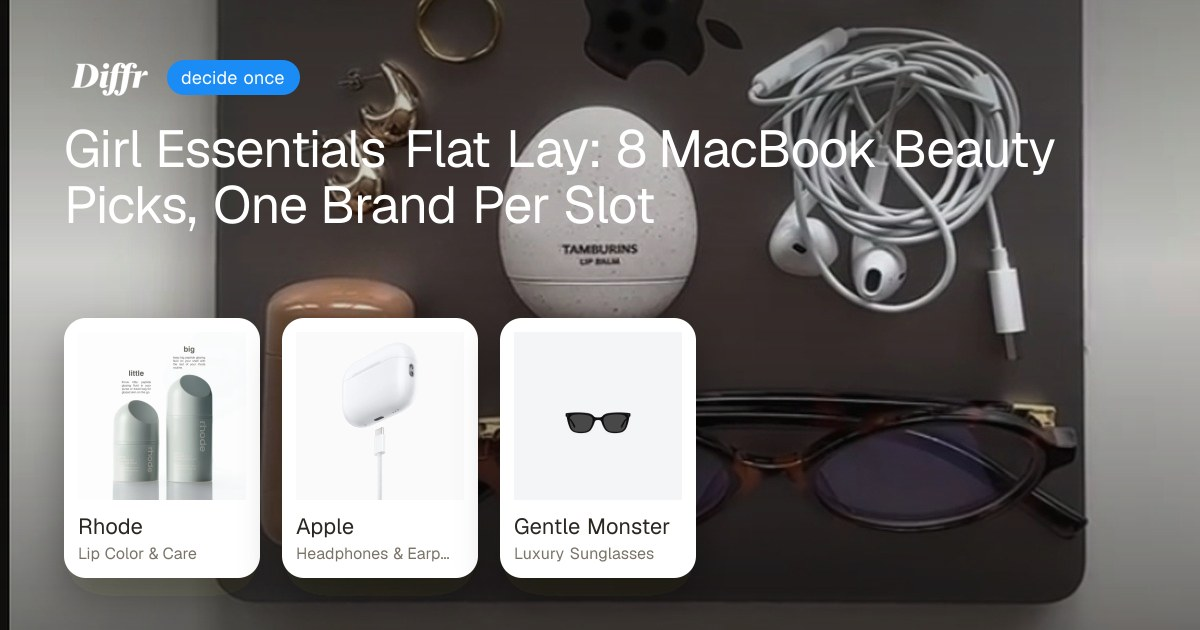
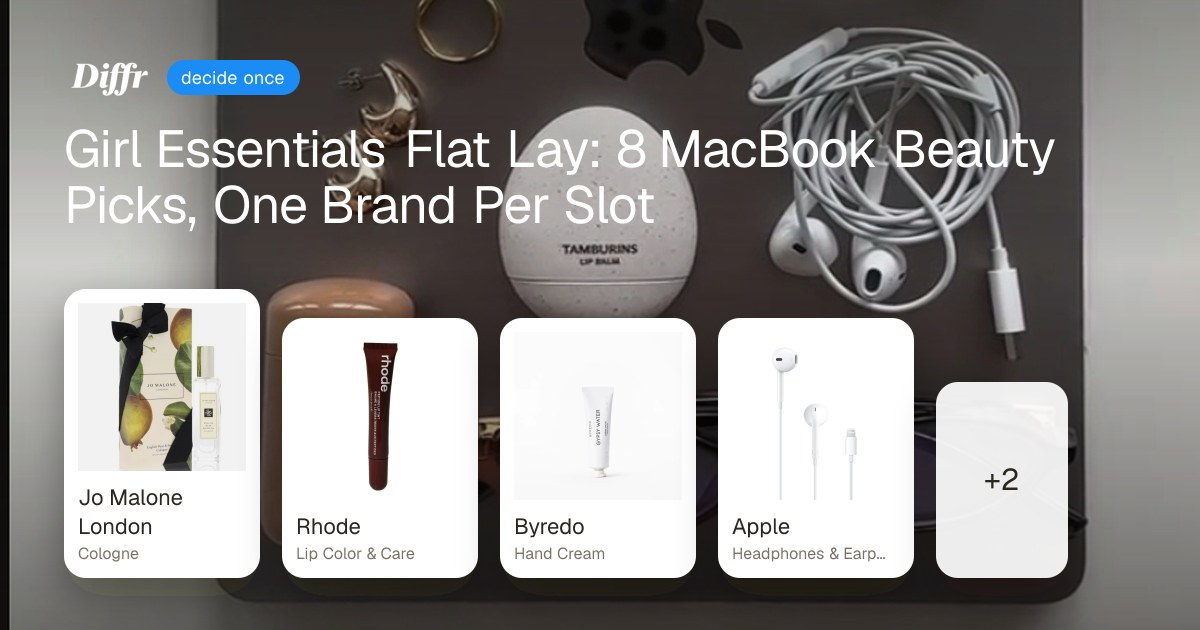
Replace girl essentials og-base with GPT editorial cover and rebake share card.
Updates blog copy for 8/8 live catalog slots (Rhode Lip Tint, EarPods Lightning) and bumps share card after Path B cover deploy.

diff --git a/app/diffr/blog/posts.ts b/app/diffr/blog/posts.ts
@@ -1227,7 +1227,7 @@ export const posts: BlogPost[] = [
   {
     slug: 'girl-essentials-brand-guide',
     title: 'Girl Essentials Flat Lay: 8 MacBook Beauty Picks, One Brand Per Slot',
-    description: 'The viral MacBook "girl essentials" flat lay decoded — Matin Kim, Jo Malone, Rhode, Tamburins, Byredo, Apple, Gentle Monster, and Mejuri. Eight slots with live catalog tiles where crawled.',
+    description: 'The viral MacBook "girl essentials" flat lay decoded — Matin Kim, Jo Malone, Rhode, Tamburins, Byredo, Apple EarPods, Gentle Monster, and Mejuri. Eight slots with live catalog images from Diffr.',
     date: '2026-08-07',
     readTime: '4 min read',
     tags: ['brand guide', 'girl essentials', 'flat lay', 'beauty EDC', 'one brand per slot', 'non-repetition principle'],
@@ -1245,7 +1245,7 @@ export const posts: BlogPost[] = [
 <p><strong>Jo Malone London English Pear &amp; Freesia</strong> &mdash; slim rectangular cologne bottle from the grid.</p>
 
 <h3>Slot 3 &mdash; Lip Color &amp; Care</h3>
-<p><strong>Rhode Peptide Glazing Fluid</strong> &mdash; the live catalog pin for Rhode on preset 123 (reference shows Peptide Lip Tint; crawl will tighten the match).</p>
+<p><strong>Rhode Peptide Lip Tint</strong> &mdash; the live catalog pin for Rhode on preset 123.</p>
 
 <h3>Slot 4 &mdash; Lip Balm</h3>
 <p><strong>Tamburins Lip Balm</strong> &mdash; white egg-shaped speckled balm from the reference.</p>
@@ -1254,16 +1254,16 @@ export const posts: BlogPost[] = [
 <p><strong>Byredo Gypsy Water Hand Cream</strong> &mdash; squeezed metal tube from the flat lay.</p>
 
 <h3>Slot 6 &mdash; Earphones</h3>
-<p><strong>Apple AirPods Pro (2nd generation)</strong> &mdash; live catalog pin for private audio (reference shows wired EarPods; same brand slot).</p>
+<p><strong>Apple EarPods with Lightning Connector</strong> &mdash; wired white EarPods from the flat lay.</p>
 
 <h3>Slot 7 &mdash; Eyewear</h3>
 <p><strong>Gentle Monster Matiny 01</strong> &mdash; round tortoiseshell frames from the catalog pin.</p>
 
 <h3>Slot 8 &mdash; Earrings</h3>
-<p><strong>Mejuri</strong> &mdash; chunky gold hoop earrings and band ring from the reference (catalog crawl pending).</p>
+<p><strong>Mejuri Bold Huggie Hoops</strong> &mdash; chunky gold hoop earrings from the reference.</p>
 
 <h2>Why This Post Exists</h2>
-<p>Beauty flat lays circulate faster than shopping lists. Diffr&rsquo;s brand kit below pulls <em>typed product lines</em> where crawled &mdash; three slots live on preset 123 today, five editorial targets queued for Browse. Each imaged slot is pinned so tiles match the decode, not a generic pool pick.</p>
+<p>Beauty flat lays circulate faster than shopping lists. Diffr&rsquo;s brand kit below pulls <em>typed product lines</em> with R2-hosted images. All eight slots are pinned on preset 123 so tiles match the decode, not a generic pool pick.</p>
 
 <p>Distinct from <a href="/diffr/blog/creative-desk-edc-brand-guide">creative desk EDC</a> (bedsheet desk kit) and <a href="/diffr/blog/daily-essentials-brand-guide">daily essentials</a> (rug carry). Explore the interactive scene: <a href="/diffr/start/girl-essentials-macbook-flat-lay">Girl Essentials MacBook Flat Lay &rarr;</a> · <a href="https://apps.apple.com/us/app/diffr/id6772870733" target="_blank" rel="noopener noreferrer">Get the app</a></p>
 `.trim(),

diff --git a/app/diffr/blog/brand-guide-content.ts b/app/diffr/blog/brand-guide-content.ts
@@ -146,7 +146,7 @@ export const BLOG_TLDR: Record<string, string> = {
   'creative-desk-edc-brand-guide':
     'Bottom line: the creative desk EDC flat lay is eight slots — Keychron Q1 Pro keyboard, AirPods Max, Sonos Roam, Olympus Pen F, Dior Saddle, Owala FreeSip, Ray-Ban Wayfarer, and Le Labo Calone 17 — one brand each. Type, listen, shoot, carry, hydrate, shade, and scent on an olive-green bedsheet; ignore Aesop props and jewelry from the reference. Live catalog tiles below.',
   'girl-essentials-brand-guide':
-    'Bottom line: the MacBook "girl essentials" flat lay is eight slots — Matin Kim card holder, Jo Malone cologne, Rhode lip care, Tamburins lip balm, Byredo hand cream, Apple EarPods, Gentle Monster eyewear, and Mejuri hoops — one brand each. Beauty-and-carry on a closed laptop; ignore the meme caption overlay. Three slots have live catalog images today; five are pinned for crawl.',
+    'Bottom line: the MacBook "girl essentials" flat lay is eight slots — Matin Kim card holder, Jo Malone cologne, Rhode Peptide Lip Tint, Tamburins lip balm, Byredo hand cream, Apple EarPods, Gentle Monster eyewear, and Mejuri hoops — one brand each. Beauty-and-carry on a closed laptop; ignore the meme caption overlay. Live catalog tiles below.',
 }
 
 export interface FaqItem {
@@ -1255,7 +1255,7 @@ export const BLOG_FAQ: Record<string, FaqItem[]> = {
   'girl-essentials-brand-guide': [
     {
       q: 'What is the girl essentials MacBook flat lay?',
-      a: 'It is an eight-slot beauty-and-carry kit staged on a closed MacBook: Matin Kim card holder, Jo Malone English Pear & Freesia cologne, Rhode lip care, Tamburins egg lip balm, Byredo Gypsy Water hand cream, Apple EarPods, Gentle Monster eyewear, and Mejuri gold hoops — one brand per slot.',
+      a: 'It is an eight-slot beauty-and-carry kit staged on a closed MacBook: Matin Kim card holder, Jo Malone English Pear & Freesia cologne, Rhode Peptide Lip Tint, Tamburins egg lip balm, Byredo Gypsy Water hand cream, Apple EarPods with Lightning, Gentle Monster eyewear, and Mejuri Bold Huggie Hoops — one brand per slot.',
     },
     {
       q: 'Why ignore the "girl essentials" caption on the reference photo?',
@@ -1266,8 +1266,8 @@ export const BLOG_FAQ: Record<string, FaqItem[]> = {
       a: 'Pink aesthetic tray is a blush vanity grid (Dyson, Hydro Flask, Touchland). Daily essentials is quiet-luxury rug carry (Margiela, Rolex, Creed). Girl essentials is K-beauty-meets-minimal EDC on a laptop surface — wallet, scent, lip, hand care, audio, glasses, and jewelry.',
     },
     {
-      q: 'Why do only some slots show product images?',
-      a: 'Preset 123 pins three live catalog lines today (Rhode Peptide Glazing Fluid, Apple AirPods Pro, Gentle Monster Matiny 01). Matin Kim, Tamburins, Jo Malone cologne, Byredo hand cream, and Mejuri hoops are editorial targets until Browse/crawl closes the gaps.',
+      q: 'Where do the product images come from?',
+      a: 'They render live from Diffr\'s catalog via preset 123. Each slot is pinned to a crawled product line with an R2-hosted image — the same data the iOS app reads.',
     },
   ],
 
